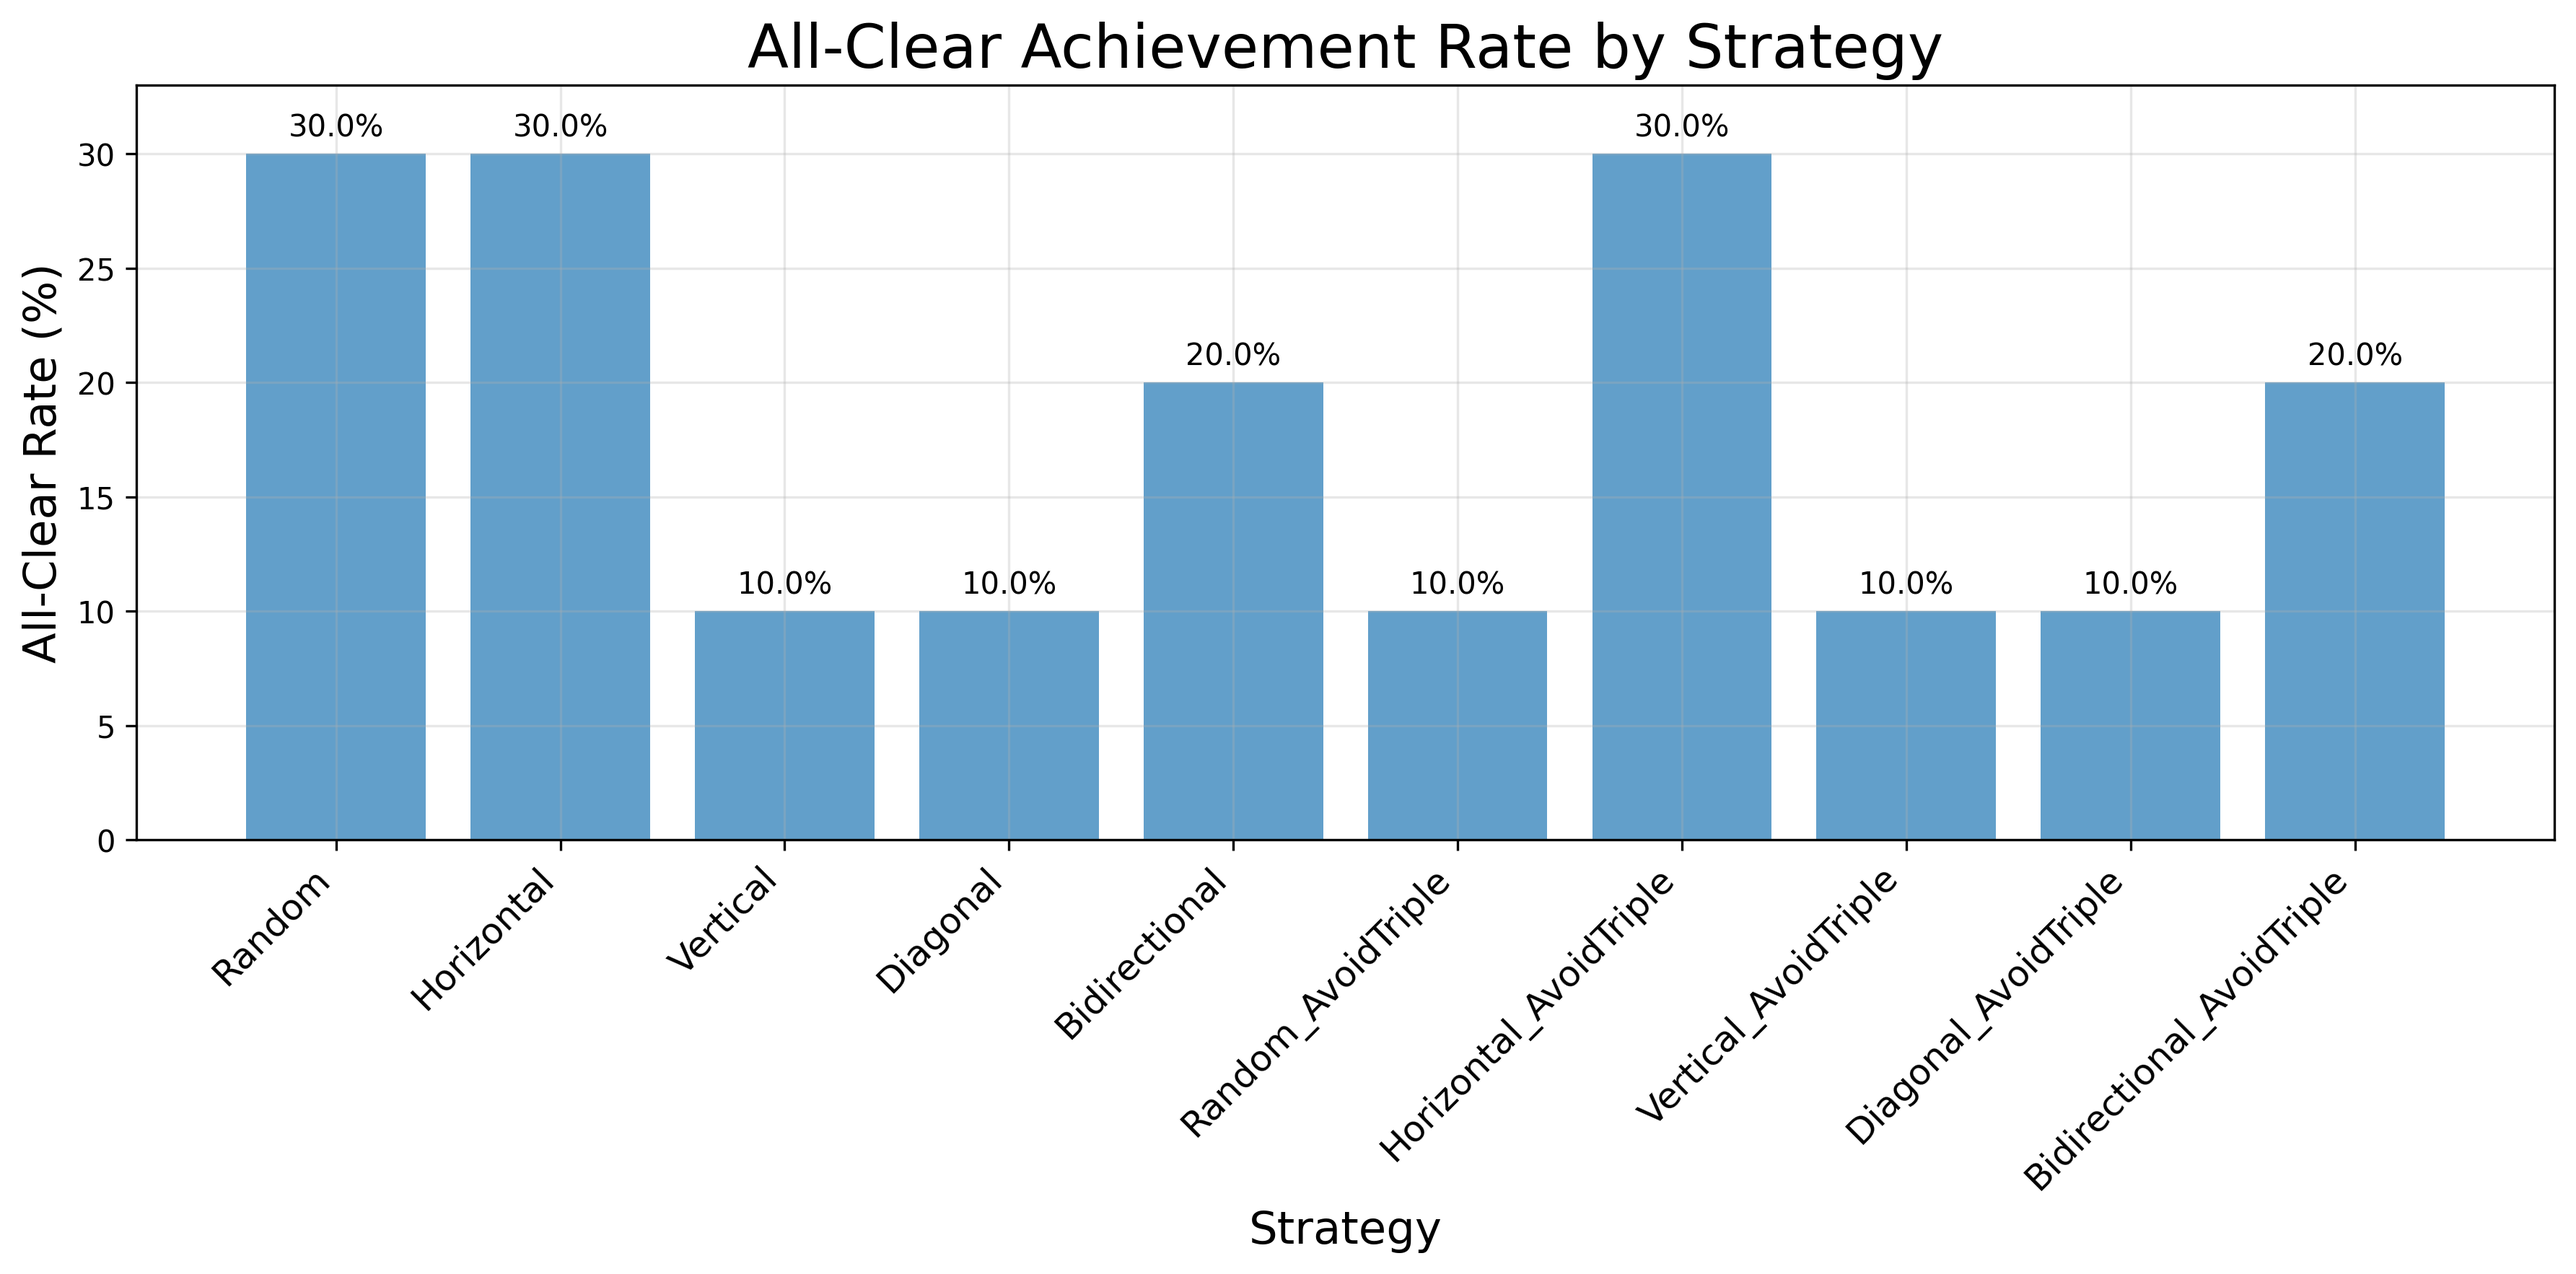
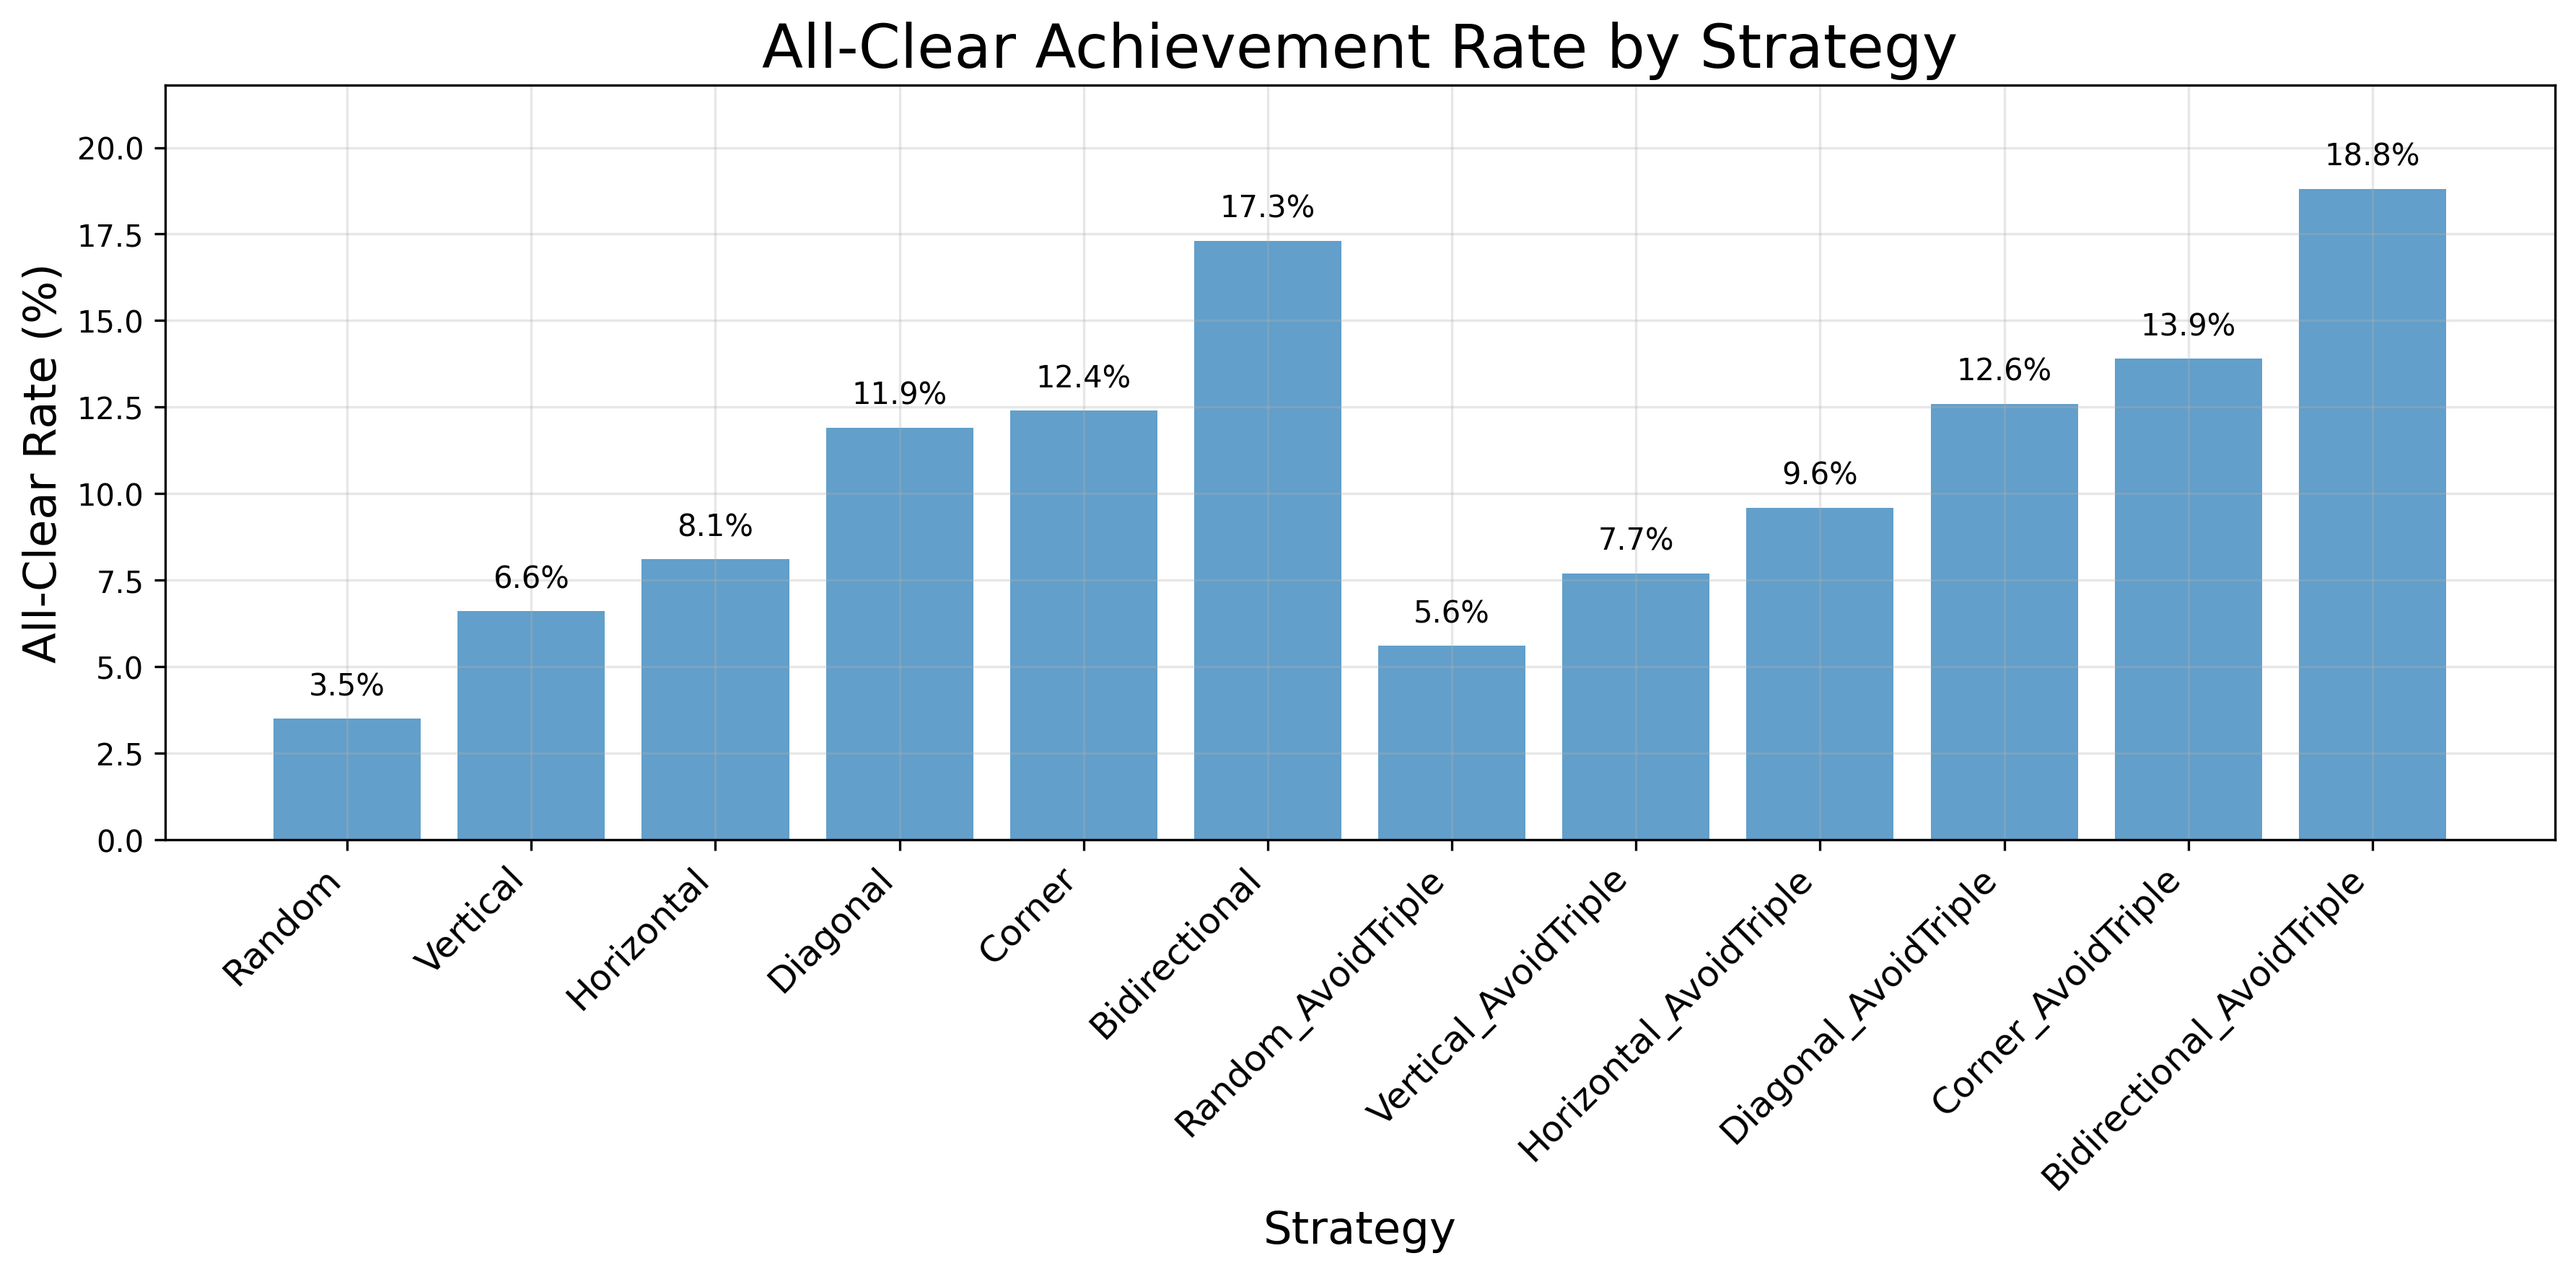
run exp with 1000 seeds

diff --git a/20257777_ColorTile/script/strategy_comparison.py b/20257777_ColorTile/script/strategy_comparison.py
@@ -1,4 +1,4 @@
-import concurrent.futures
+import concurrent.futures as features
 import os
 import pickle
 from collections import defaultdict
@@ -103,42 +103,48 @@ class StrategyComparison:
 
         return analysis
 
+    def _worker(self, args):
+        strategy_name, solver_class, solver_kwargs, seed = args
+        return self.run_single_experiment(
+            strategy_name, solver_class, solver_kwargs, seed
+        )
+
     def run_all_experiments(self) -> None:
         """Run experiments for all strategies"""
 
-        def run_strategy(strategy_tuple):
-            strategy_name, solver_class, solver_kwargs = strategy_tuple
+        for strategy_name, solver_class, solver_kwargs in self.strategies:
             print(f"Running {self.num_experiments} experiments for {strategy_name}...")
-            results = []
-            for seed in range(self.num_experiments):
-                result = self.run_single_experiment(
-                    strategy_name, solver_class, solver_kwargs, seed
-                )
-                results.append(result)
-                if (
-                    self.save_gif
-                    and self.has_saved_all_clear[strategy_name]
-                    and seed >= 5
-                ):
-                    print("    All-clear gif saved, skipping further exps.")
-                    break
-            else:
-                if self.save_gif:
+
+            if self.save_gif:
+                for seed in range(self.num_experiments):
+                    self.run_single_experiment(
+                        strategy_name, solver_class, solver_kwargs, seed
+                    )
+                    if (
+                        self.save_gif
+                        and self.has_saved_all_clear[strategy_name]
+                        and seed >= 5
+                    ):
+                        print("    All-clear gif saved, skipping further exps.")
+                        break
+                else:
                     raise RuntimeError("No all-clear achieved, cannot save gif.")
-            self.results[strategy_name] = results
-            print("    Done.")
+            else:
+                results = []
+                with features.ProcessPoolExecutor() as executor:
+                    futures = [
+                        executor.submit(
+                            self._worker,
+                            (strategy_name, solver_class, solver_kwargs, seed),
+                        )
+                        for seed in range(self.num_experiments)
+                    ]
+                    for future in features.as_completed(futures):
+                        results.append(future.result())
 
-        # with concurrent.futures.ThreadPoolExecutor() as executor:
-        #     futures = {
-        #         executor.submit(run_strategy, strategy_tuple): strategy_tuple
-        #         for strategy_tuple in self.strategies
-        #     }
-        #     for future in concurrent.futures.as_completed(futures):
-        #         print(future.result())
-
-        if self.save_gif:
-            for strategy_tuple in self.strategies:
-                run_strategy(strategy_tuple)
+                results.sort(key=lambda x: x["seed"])
+                self.results[strategy_name] = results
+                print("    Done.")
 
     def analyze_results(self) -> Dict[str, Dict]:
         """Analyze and summarize results for all strategies"""
@@ -306,7 +312,7 @@ def main():
         print("Loaded existing experiment results from strategy_comparison_results.pkl")
     else:
         experiment = StrategyComparison(
-            num_experiments=1000, max_moves=1000, save_gif=True
+            num_experiments=1000, max_moves=1000, save_gif=False
         )
         experiment.run_all_experiments()
         with open("strategy_comparison_results.pkl", "wb") as f:

diff --git a/20257777_ColorTile/README.md b/20257777_ColorTile/README.md
@@ -248,7 +248,7 @@ https://bengoshi-sakao.com/column/%E3%82%B2%E3%83%BC%E3%83%A0%E3%81%AE%E3%80%8C%
 <!-- trick -->
 * コツα: `3個消しを回避する`
 * コツβ: `2個隣接を残さない`
-* コツγ: `斜め双方向方向に消す`
+* コツγ: `斜め双方向に消す`
 
 を本記事では提案します。
 
